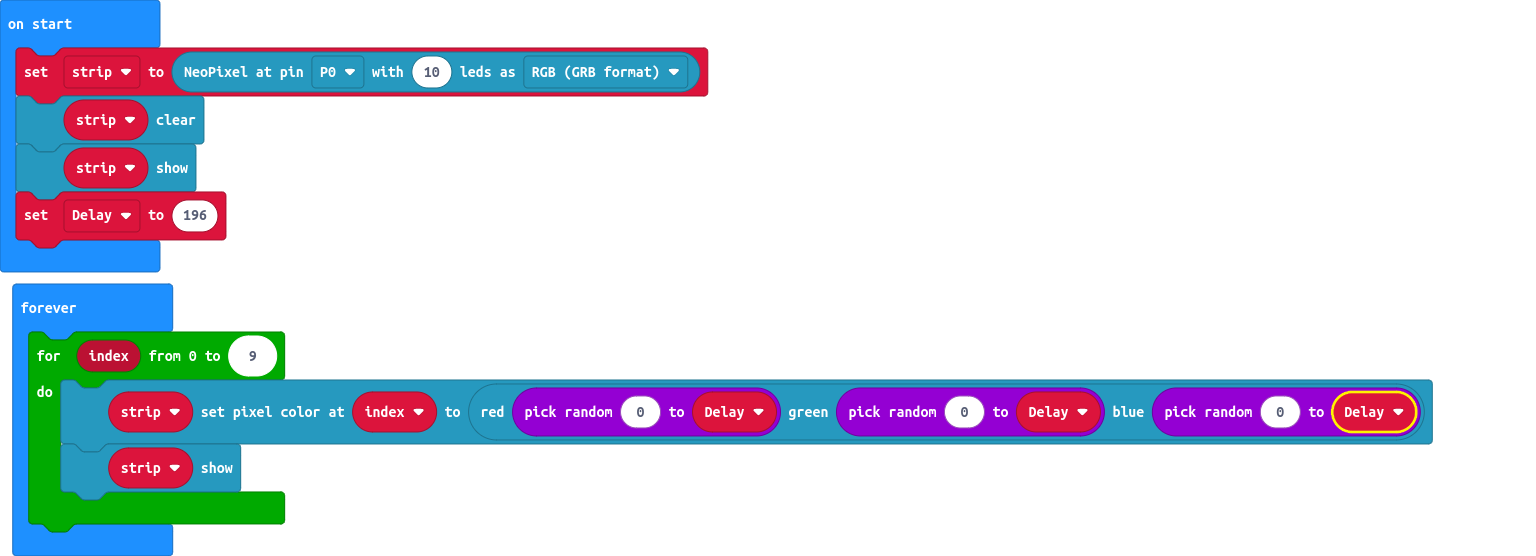
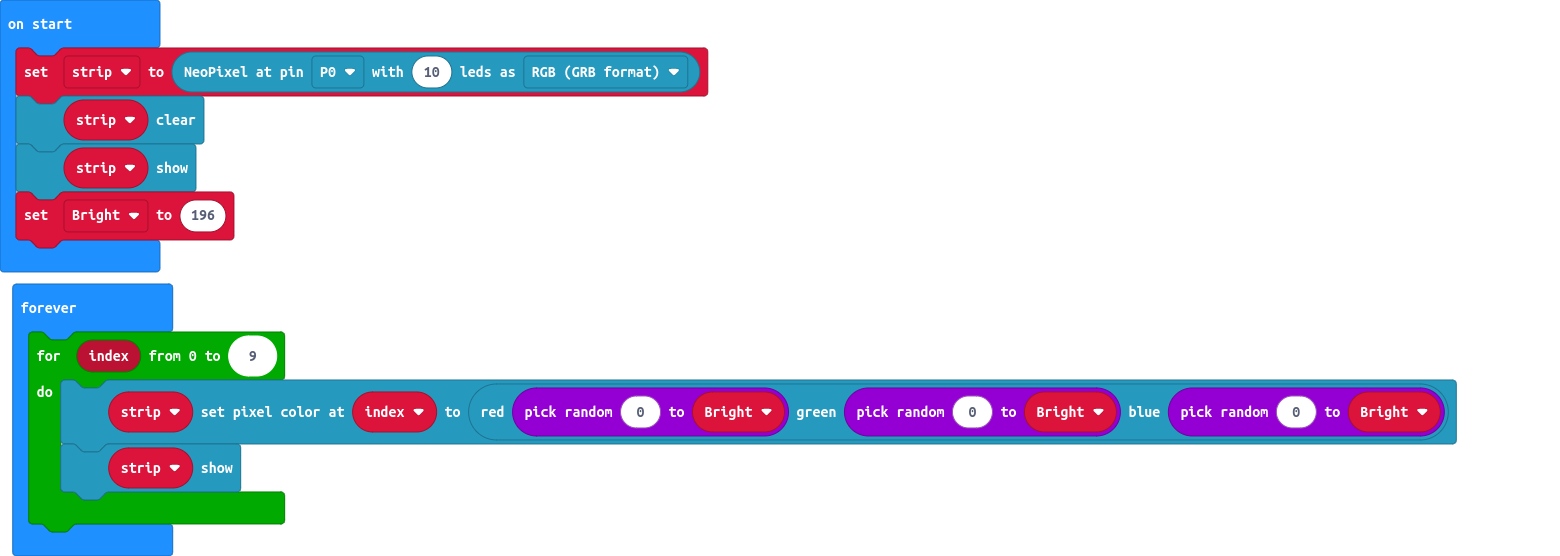
Update main.blocks, main.ts

diff --git a/main.ts b/main.ts
@@ -1,10 +1,10 @@
 let strip = neopixel.create(DigitalPin.P0, 10, NeoPixelMode.RGB)
 strip.clear()
 strip.show()
-let Delay = 196
+let Bright = 196
 basic.forever(function () {
     for (let index = 0; index <= 9; index++) {
-        strip.setPixelColor(index, neopixel.rgb(randint(0, Delay), randint(0, Delay), randint(0, Delay)))
+        strip.setPixelColor(index, neopixel.rgb(randint(0, Bright), randint(0, Bright), randint(0, Bright)))
         strip.show()
     }
 })
